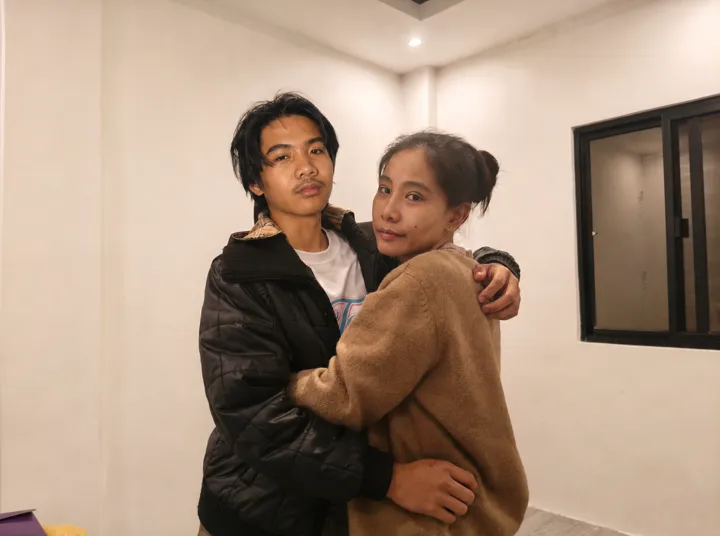
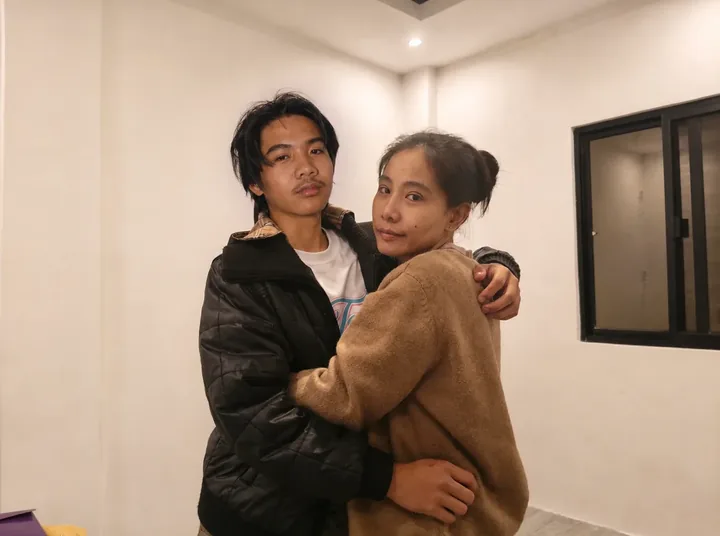
Family & Friends: even out the face lighting in the Mother photo

Changed region(s): [[0.3667, 0.209, 0.4583, 0.3881]]

diff --git a/family.html b/family.html
@@ -42,7 +42,7 @@
     <div class="fam-grid">
       <figure class="fam-card pull" style="--i:2">
         <p class="who">Mother</p>
-        <img data-full="assets/images/family/mother.webp" tabindex="0" role="button" src="assets/images/family/mother-sm.webp" alt="Kurt hugging his mother" width="720" height="536">
+        <img data-full="assets/images/family/mother.webp?v=5b9e4d77" tabindex="0" role="button" src="assets/images/family/mother-sm.webp?v=341e8825" alt="Kurt hugging his mother" width="720" height="536">
         <figcaption>Thanks for raising me, Ma, and for your endless patience. I was good at sneaking out at midnight. You were better at catching me.</figcaption>
       </figure>
       <figure class="fam-card pull" style="--i:3">
